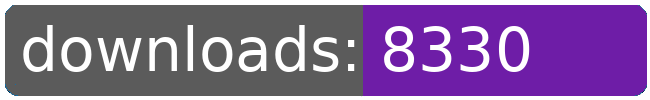
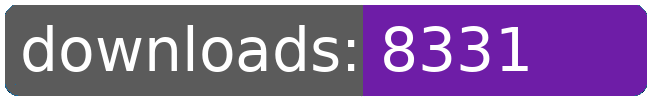
dl log written

Changed region(s): [[0.7692, 0.24, 0.8308, 0.72]]

diff --git a/README.md b/README.md
@@ -21,8 +21,8 @@
 		<td>8311</td>
 		<td>8319</td>
 		<td>8324</td>
-		<td>8330</td>
-		<td>+ 6</td>
+		<td>8331</td>
+		<td>+ 7</td>
 	</tr>
 	<tr>
 		<td>aberrant.kahet.outfitter</td>
@@ -274,8 +274,8 @@
 		<td></td>
 		<td></td>
 		<td></td>
-		<td>126378</td>
-		<td>58</td>
+		<td>126379</td>
+		<td>59</td>
 	</tr>
 </table>
 </sub></sup>
@@ -300,8 +300,8 @@
 		<td>8311</td>
 		<td>8319</td>
 		<td>8324</td>
-		<td>8330</td>
-		<td>+ 6</td>
+		<td>8331</td>
+		<td>+ 7</td>
 	</tr>
 	<tr>
 		<td>aberrant.kahet.outfitter</td>
@@ -553,8 +553,8 @@
 		<td></td>
 		<td></td>
 		<td></td>
-		<td>126378</td>
-		<td>58</td>
+		<td>126379</td>
+		<td>59</td>
 	</tr>
 </table>
 </sub></sup>
